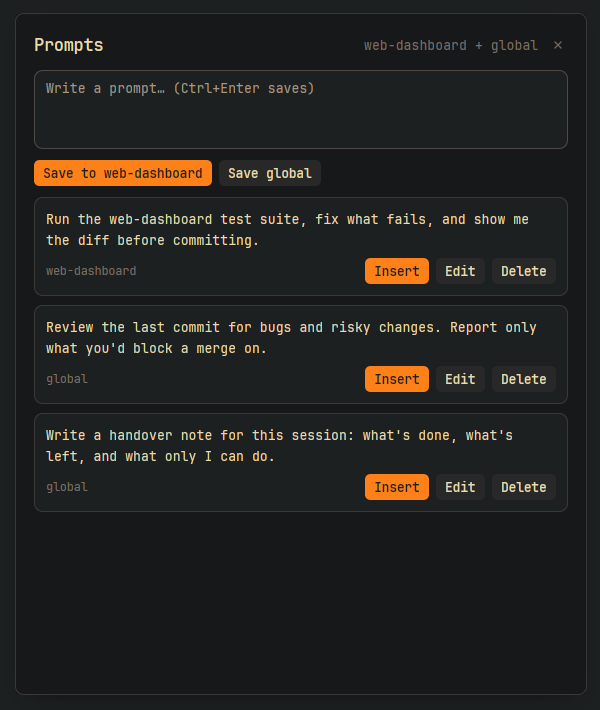
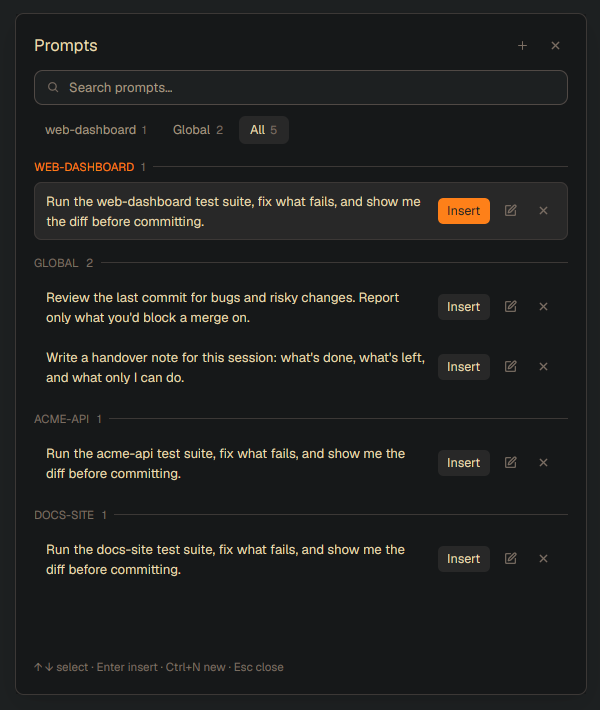
prompts: redesigned panel (search, scope tabs, project headings, folded editor, keyboard pick)

diff --git a/prompts/mods/prompts/main.js b/prompts/mods/prompts/main.js
@@ -1,7 +1,7 @@
 import { View, div, svg } from "gpui-kit";
-import { h_flex, v_flex, Textarea, TextareaState } from "gpui-base";
+import { h_flex, v_flex, Input, InputState, ScrollHandle, Textarea, TextareaState } from "gpui-base";
 import { appHome, closeOverlay, exec, focused, props, readTextFile, run, theme, writeTextFile } from "herdr";
-import { keyMachine, parsePrompts, projectKey, projectName, remove, save, visible } from "./logic.mjs";
+import { count, groups, keyMachine, parsePrompts, projectKey, projectName, remove, save } from "./logic.mjs";
 
 // A plain file, not localStorage: an overlay window's storage file is named by a hash herdr-app may change.
 const FILE = () => `${appHome()}/data/prompts.json`;
@@ -31,13 +31,21 @@ export default class Prompts extends View {
     this.prompts = [];
     this.error = "";
     this.project = "";
+    this.scope = "all";
+    this.query = "";
+    this.at = 0;
+    this.composing = false;
     this.editing = null;
     this.confirm = null;
+    this.scroll = ScrollHandle.new();
+    this.search = InputState.new({ placeholder: "Search prompts…" });
+    this.search.on("change", (_e, cx) => { this.query = this.search.value(); this.at = 0; cx.notify(); });
+    this.search.on("submit", (_e, cx) => { const p = this.flat()[this.at]; if (p && this.terminal) this.insert(p, cx); });
     this.input = TextareaState.new({ placeholder: "Write a prompt… (Ctrl+Enter saves)" });
-    this.input.set_auto_grow(3, 10);
+    this.input.set_auto_grow(3, 8);
     this.input.on("submit", (_e, cx) => this.store(this.project, cx));
-    this.input.focus();
-    cx.timer.after(300, () => this.input.focus());
+    this.search.focus();
+    cx.timer.after(300, () => this.search.focus());
     // The terminal under the panel: Insert pastes there, and its git root (else folder) is the project.
     const f = focused();
     this.pane = f?.pane ?? null;
@@ -94,16 +102,20 @@ export default class Prompts extends View {
     cx.notify();
   }
 
+  groups() { return groups(this.prompts, this.project, this.project || this.scope !== "project" ? this.scope : "all", this.query); }
+  flat() { return this.groups().flatMap((g) => g.items); }
+
   store(project, cx) {
     this.write(save(this.prompts, { id: this.editing?.id, text: this.input.value(), project }), cx);
-    this.editing = null;
-    this.input.set_value("");
+    this.compose(false, cx);
   }
 
-  edit(p, cx) {
-    this.editing = p;
-    this.input.set_value(p.text);
-    this.input.focus();
+  // Opens the editor (empty, or holding `p` to edit) or closes it and hands the keyboard back to search.
+  compose(open, cx, p = null) {
+    this.composing = open;
+    this.editing = open ? p : null;
+    this.input.set_value(p?.text ?? "");
+    (open ? this.input : this.search).focus();
     cx.notify();
   }
 
@@ -115,58 +127,107 @@ export default class Prompts extends View {
     run("terminal.paste");
   }
 
+  move(by, cx) {
+    const n = this.flat().length;
+    if (!n) return;
+    this.at = Math.max(0, Math.min(n - 1, this.at + by));
+    this.scroll.scroll_to_item(this.rowIndex.get(this.at) ?? 0);
+    cx.notify();
+  }
+
   render() {
     const t = theme();
-    const shown = visible(this.prompts, this.project);
     const name = projectName(this.project);
+    const gs = this.groups();
+    this.at = Math.min(this.at, Math.max(0, gs.reduce((n, g) => n + g.items.length, 0) - 1));
+    // The list's direct children are headings and rows; rowIndex maps a row's place in the flat list to its child.
+    const children = [];
+    this.rowIndex = new Map();
+    let i = 0;
+    for (const g of gs) {
+      children.push(this.heading(t, g, children.length));
+      for (const p of g.items) { this.rowIndex.set(i, children.length); children.push(this.row(t, p, i++)); }
+    }
+    const tabs = [...(name ? [["project", name]] : []), ["global", "Global"], ["all", "All"]];
     return v_flex().id("prompts").size_full().min_h(0).p(16).gap(10).bg(t.popover).text_size(12)
-      .on_key_down((e, cx) => { if (e.key === "escape") { cx.stop_propagation(); closeOverlay(props().overlay); } })
+      .on_key_down((e, cx) => {
+        if (e.key === "escape") { cx.stop_propagation(); return this.composing ? this.compose(false, cx) : closeOverlay(props().overlay); }
+        if (e.key === "n" && e.modifiers.control) { cx.stop_propagation(); return this.compose(!this.composing, cx); }
+        if (!this.composing && (e.key === "down" || e.key === "up")) { cx.stop_propagation(); this.move(e.key === "down" ? 1 : -1, cx); }
+      })
       .child(h_flex().gap(8).items_center()
         .child(div().flex_1().text_size(15).font_semibold().text_color(t.foreground).child("Prompts"))
-        .child(div().text_color(t.dim).child(name ? `${name} + global` : "global"))
-        .child(this.icon(t, "prompts-close", "Close (Esc)", () => closeOverlay(props().overlay))))
+        .when(Boolean(this.on), (el) => el.child(div().text_size(11).text_color(t.dim).child(`kept on ${this.on}`)))
+        .child(this.icon(t, "prompts-new", "plus.svg", "New prompt (Ctrl+N)", (cx) => this.compose(!this.composing, cx)))
+        .child(this.icon(t, "prompts-close", "x.svg", "Close (Esc)", () => closeOverlay(props().overlay))))
+      .child(h_flex().h(32).flex_none().gap(8).px(10).items_center().rounded(8).border_1().border_color(t.input).bg(t.background)
+        .child(svg("mods/workspace-chrome/search.svg").size(13).flex_none().text_color(t.dim))
+        .child(Input.new(this.search).flex_1().text_color(t.foreground)))
+      .child(h_flex().gap(4).items_center()
+        .children(tabs.map(([id, label]) => this.tab(t, id, label, count(this.prompts, this.project, id)))))
+      .when(this.composing, (el) => el.child(v_flex().gap(8).p(10).rounded(8).border_1().border_color(t.accent).bg(t.surface)
+        .child(div().text_size(11).font_semibold().text_color(t.dim).child(this.editing ? "Edit prompt" : "New prompt"))
+        .child(Textarea.new(this.input).px(10).py(6).rounded(6).border_1().border_color(t.input).bg(t.background).text_color(t.foreground))
+        .child(h_flex().gap(6).items_center()
+          .when(Boolean(name), (el) => el.child(this.button(t, "save-project", `Save to ${name}`, true, `Only shown in ${this.project}`, (cx) => this.store(this.project, cx))))
+          .child(this.button(t, "save-global", "Save global", !name, "Shown in every project", (cx) => this.store("", cx)))
+          .child(div().flex_1())
+          .child(this.button(t, "cancel-edit", "Cancel", false, "Esc", (cx) => this.compose(false, cx))))))
       .when(Boolean(this.error), (el) => el.child(div().text_color(t.blocked).child(this.error)))
-      .child(Textarea.new(this.input).px(10).py(6).rounded(8).border_1().border_color(t.input).bg(t.background).text_color(t.foreground))
-      .child(h_flex().gap(6).items_center()
-        .when(Boolean(name), (el) => el.child(this.button(t, "save-project", `Save to ${name}`, true, `Only shown in ${this.project}`, (cx) => this.store(this.project, cx))))
-        .child(this.button(t, "save-global", "Save global", !name, "Shown in every project", (cx) => this.store("", cx)))
-        .when(Boolean(this.editing), (el) => el.child(this.button(t, "cancel-edit", "Cancel edit", false, "Keep the prompt as it was",
-          (cx) => { this.editing = null; this.input.set_value(""); cx.notify(); })))
-        .child(div().flex_1())
-        .when(!this.terminal, (el) => el.child(div().text_color(t.dim).child("Focus a terminal to insert"))))
-      .when(!shown.length, (el) => el.child(div().py(12).text_color(t.muted).child(name ? `No prompts for ${name} or global yet.` : "No global prompts yet.")))
-      .child(v_flex().id("prompts-list").flex_1().min_h(0).gap(8).overflow_y_scrollbar()
-        .children(shown.map((p, i) => this.card(t, p, i))));
+      .when(!children.length, (el) => el.child(div().py(16).text_color(t.muted).child(
+        this.query.trim() ? `No prompts match “${this.query.trim()}”.` : "No prompts here yet. Ctrl+N adds one.")))
+      .child(v_flex().id("prompts-list").flex_1().min_h(0).gap(2).overflow_y_scrollbar().track_scroll(this.scroll).children(children))
+      .child(div().text_size(10.5).text_color(t.dim).child(this.terminal ? "↑ ↓ select · Enter insert · Ctrl+N new · Esc close" : "Focus a terminal to insert · Ctrl+N new · Esc close"));
   }
 
-  card(t, p, i) {
-    const text = p.text.length > 600 ? `${p.text.slice(0, 600)}…` : p.text;
-    return v_flex().id(`prompt-${i}`).flex_none().p(10).gap(6).rounded(8).border(1)
-      .border_color(this.editing?.id === p.id ? t.accent : t.border).bg(t.surface)
-      .child(div().text_color(t.foreground).child(text))
-      .child(h_flex().gap(6).items_center()
-        .child(div().text_size(10.5).text_color(t.dim).child(p.project ? projectName(p.project) : "global"))
-        .child(div().flex_1())
-        .when(Boolean(this.terminal), (el) => el.child(this.button(t, `insert-${i}`, "Insert", true, "Paste into the terminal (no Enter)", (cx) => this.insert(p, cx))))
-        .child(this.button(t, `edit-${i}`, "Edit", false, "Edit above; Save to… moves it", (cx) => this.edit(p, cx)))
-        .child(this.button(t, `delete-${i}`, this.confirm === p.id ? "Delete?" : "Delete", false, "Click twice to delete",
-          (cx) => { if (this.confirm === p.id) { this.confirm = null; this.write(remove(this.prompts, p.id), cx); } else { this.confirm = p.id; cx.notify(); } })));
+  tab(t, id, label, n) {
+    const on = (this.project || id !== "project") && this.scope === id;
+    return h_flex().id(`tab-${id}`).flex_none().gap(5).px(10).py(4).rounded(6).items_center().cursor_pointer()
+      .bg(on ? t.raised : t.popover).hover((s) => s.bg(on ? t.raised : t.hover))
+      .on_mouse_down("left", (_e, cx) => cx.stop_propagation())
+      .on_click((_e, cx) => { this.scope = id; this.at = 0; cx.notify(); })
+      .child(div().text_size(11.5).font_semibold().text_color(on ? t.foreground : t.muted).child(label))
+      .child(div().text_size(10.5).text_color(t.dim).child(String(n)));
   }
 
-  button(t, id, label, primary, tip, onClick) {
+  heading(t, g, key) {
+    const here = g.key && g.key === this.project;
+    return h_flex().id(`group-${key}`).flex_none().gap(6).pt(key ? 10 : 2).pb(4).items_center()
+      .child(div().text_size(10.5).font_bold().text_color(here ? t.accent : t.dim).child(g.title.toUpperCase()))
+      .child(div().text_size(10.5).text_color(t.dim).child(String(g.items.length)))
+      .child(div().flex_1().h(1).bg(t.border));
+  }
+
+  row(t, p, i) {
+    const picked = i === this.at;
+    return h_flex().id(`prompt-${i}`).flex_none().gap(8).px(10).py(7).rounded(7).items_center().cursor_pointer()
+      .bg(picked ? t.hover : t.popover).border_1().border_color(this.editing?.id === p.id ? t.accent : picked ? t.border : t.popover)
+      .hover((s) => s.bg(t.hover))
+      .on_click((_e, cx) => { this.at = i; cx.notify(); })
+      .when(p.text.length > 120 || p.text.includes("\n"), (el) => el.tooltip(p.text.length > 2000 ? `${p.text.slice(0, 2000)}…` : p.text))
+      // Two lines at most: the full text is in the tooltip.
+      .child(div().flex_1().min_w(0).line_height("18px").max_h(36).overflow_hidden().text_color(t.foreground).child(p.text))
+      .when(Boolean(this.terminal), (el) => el.child(this.button(t, `insert-${i}`, "Insert", picked, "Paste into the terminal (no Enter)", (cx) => this.insert(p, cx))))
+      .child(this.icon(t, `edit-${i}`, "square-pen.svg", "Edit (Save to… moves it)", (cx) => this.compose(true, cx, p)))
+      .child(this.confirm === p.id
+        ? this.button(t, `delete-${i}`, "Delete?", false, "Click again to delete", (cx) => { this.confirm = null; this.write(remove(this.prompts, p.id), cx); }, t.blocked)
+        : this.icon(t, `delete-${i}`, "x.svg", "Delete (click twice)", (cx) => { this.confirm = p.id; cx.notify(); }));
+  }
+
+  button(t, id, label, primary, tip, onClick, color = null) {
     return div().id(id).flex_none().px(8).py(3).rounded(5).text_size(11.5).font_semibold().cursor_pointer()
-      .bg(primary ? t.solid : t.raised).text_color(primary ? t.solid_foreground : t.foreground)
+      .bg(primary ? t.solid : t.raised).text_color(color ?? (primary ? t.solid_foreground : t.foreground))
       .hover((s) => s.bg(primary ? t.accent : t.hover)).tooltip(tip)
       .on_mouse_down("left", (_e, cx) => cx.stop_propagation())
-      .on_click((_e, cx) => onClick(cx))
+      .on_click((_e, cx) => { cx.stop_propagation(); onClick(cx); })
       .child(label);
   }
 
-  icon(t, id, tip, onClick) {
-    return div().id(id).flex_none().size(18).rounded(5).flex().items_center().justify_center().text_color(t.dim)
-      .hover((s) => s.bg(t.hover).text_color(t.foreground)).tooltip(tip)
+  icon(t, id, file, tip, onClick) {
+    return div().id(id).flex_none().size(22).rounded(5).flex().items_center().justify_center().cursor_pointer().text_color(t.dim)
+      .hover((s) => s.bg(t.raised).text_color(t.foreground)).tooltip(tip)
       .on_mouse_down("left", (_e, cx) => cx.stop_propagation())
       .on_click((_e, cx) => { cx.stop_propagation(); onClick(cx); })
-      .child(svg("mods/workspace-chrome/x.svg").size(11));
+      .child(svg(`mods/workspace-chrome/${file}`).size(12));
   }
 }

diff --git a/prompts/RECIPE.md b/prompts/RECIPE.md
@@ -7,22 +7,29 @@ that terminal.
 ![The Prompts panel](preview.png)
 
 **Panel (`mod.open:prompts`, a 520×620 `window` overlay, e.g. `ctrl-shift-i` in `keys.json`):** a
-`Prompts` heading with `<project> + global` (or `global`) and an X; Esc closes it too. Then a textarea
-(3 to 10 rows) and two buttons: **Save to `<project>`** (primary; only when there is a project) and
-**Save global**; Ctrl+Enter in the textarea saves to the project, or global without one. Then one card
-per prompt, this project's first, then the global ones, newest first in each: the text (cut at 600
-characters), its scope in `dim`, and three buttons:
+`Prompts` heading with a + (new prompt, Ctrl+N) and an X (Esc). Under it:
 
-- **Insert**: closes the panel, focuses the pane it was opened over, puts the prompt on the clipboard and
-  runs `terminal.paste`. It is pasted, never sent: no Enter, so you can still change it. Only shown when
-  a terminal was focused.
-- **Edit**: loads the prompt into the textarea, its card outlined in `accent`; either Save button
-  replaces it (and moves it to that scope). **Cancel edit** appears beside them.
-- **Delete**: the first click turns it into **Delete?**, the second deletes.
+- **Search** (focused on open, search icon inside a bordered box): filters as you type, on the text and
+  the project name, any case.
+- **Scope tabs** with counts: `<project>` (only when there is one), `Global`, `All` (the default).
+- **Editor**, folded away until + or Ctrl+N (or a row's pencil) opens it, outlined in `accent`: a
+  textarea (3 to 8 rows), **Save to `<project>`** (primary; only with a project), **Save global**
+  (Ctrl+Enter saves to the project, or global without one) and **Cancel** (Esc closes the editor
+  first, then the panel). Saving a prompt you edit replaces it, and moves it to that scope.
+- **The list**, under headings with a rule and a count: this project (in `accent`), `GLOBAL`, then
+  other projects by their newest prompt; newest first in each. Each row: the text at most two lines
+  (the full text in a tooltip when longer), **Insert**, a pencil (edit) and an X (delete: the first
+  click turns it into a red **Delete?**, the second deletes). The picked row (↑/↓, or a click) has a
+  border and an orange Insert.
+- A footer with the keys: ↑ ↓ select · Enter insert · Ctrl+N new · Esc close.
+
+**Insert** (the button, or Enter in the search) closes the panel, focuses the pane it was opened over,
+puts the prompt on the clipboard and runs `terminal.paste`. It is pasted, never sent: no Enter, so you
+can still change it. Only shown when a terminal was focused.
 
 **Project:** the git root of the focused terminal's folder (`git -C <cwd> rev-parse --show-toplevel`,
 run on that terminal's machine), else the folder itself; for another machine's terminal it is
-`<machine>:<path>`. Prompts saved elsewhere stay out of the list.
+`<machine>:<path>`.
 
 **Storage:** `~/.config/herdr-app/data/prompts.json` (under `appHome()`), an array of `{id, text, project,
 at}`, `project` `""` for global. Read when the panel opens; written with `writeTextFile(path, text,

diff --git a/CHANGELOG.md b/CHANGELOG.md
@@ -16,6 +16,13 @@ a version (see [AGENTS.md](AGENTS.md#releases)).
   saves that machine's prompts, with projects named the same from both, so a prompt saved on the laptop
   shows on the desktop and back.
 
+### Changed
+
+- **prompts:** redesigned panel: a search box (text and project name), scope tabs with counts
+  (project, Global, All), the list under project headings (this project, Global, then the others), rows
+  of two lines with Insert, edit and delete icons, the editor folded behind + / Ctrl+N, and ↑ ↓ Enter
+  to pick and insert from the keyboard.
+
 ### Fixed
 
 - **usage:** fractional percents (mistral, muse, opendesign report `35.454188`) show whole; the RECIPE
